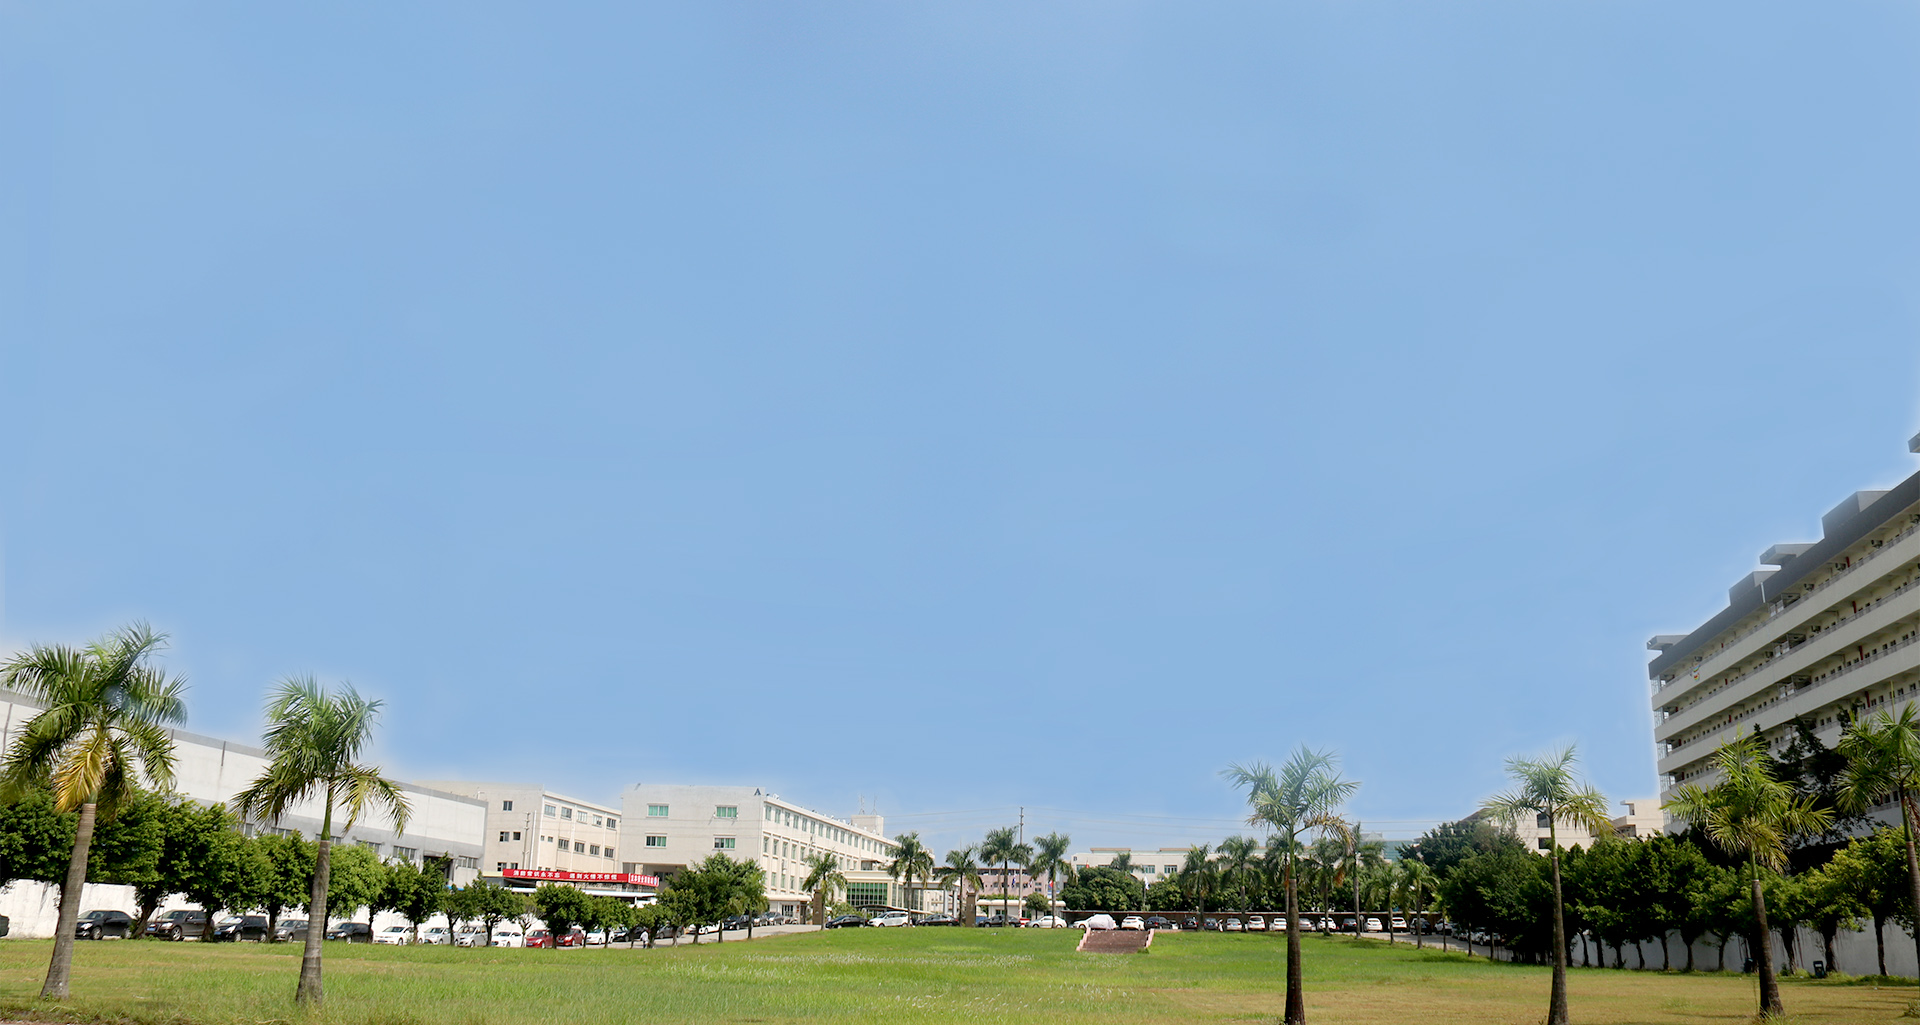
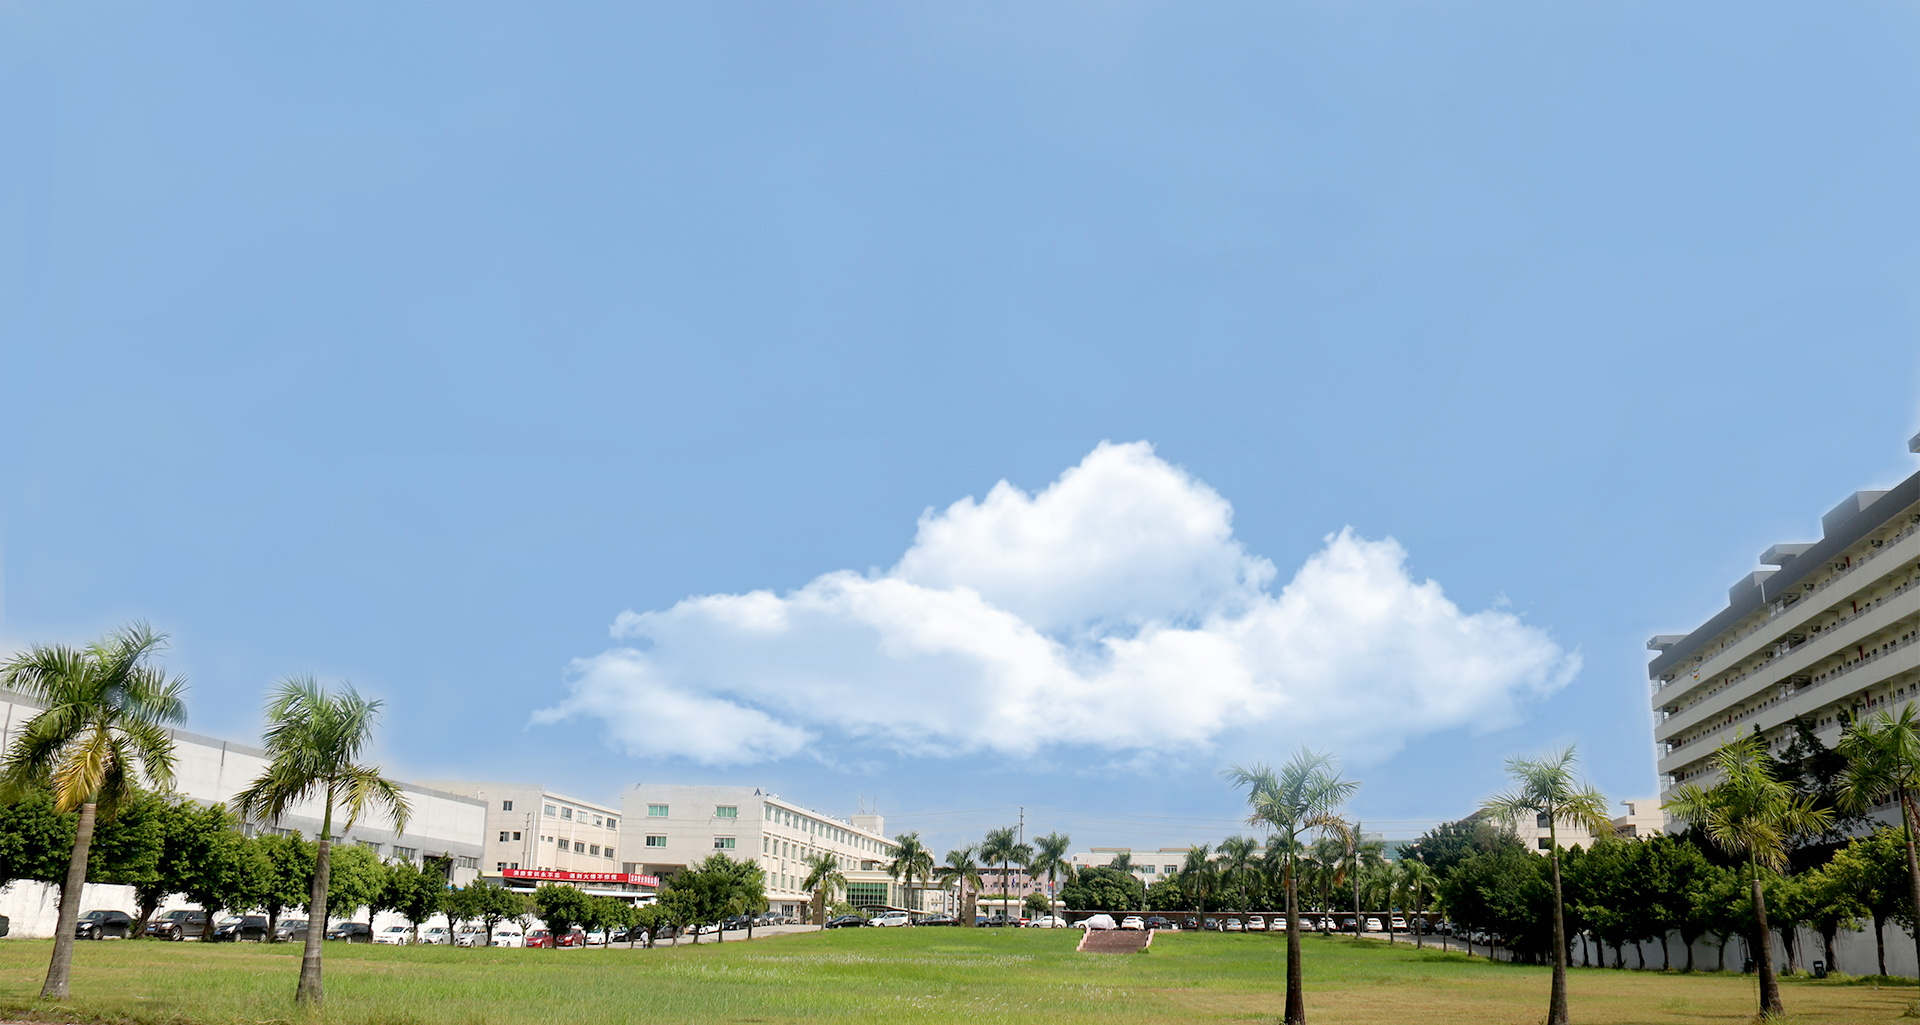
修正开始页

Changed region(s): [[0.2812, 0.4059, 0.8438, 0.7493]]

diff --git a/Public/Home/css/clouds.css b/Public/Home/css/clouds.css
@@ -24,7 +24,7 @@ html, body {
     z-index: 2;
     background: url("../images/yl/cloud_1.png") no-repeat scroll;
     position: absolute;
-    top: 2rem;
+    top: -5rem;
     left: -10rem;
     height: 100%;
     width: 150%;
@@ -40,7 +40,7 @@ html, body {
 
 .sky .clouds_two {
     z-index: 2;
-    background: url("../images/yl/cloud_2.png") no-repeat scroll;
+    background: url("../images/yl/cloud_3.png") no-repeat scroll;
     position: absolute;
     top: 4rem;
     left: 20rem;
@@ -126,7 +126,7 @@ html, body {
     display: block;
     position: absolute;
     left: 50%;
-    bottom: 6rem;
+    bottom: 18%;
     width: 3rem;
     height: 3rem;
     margin: -1.5rem 0 0 -1.5rem;;
@@ -168,9 +168,9 @@ html, body {
 #logo {
     z-index: 10;
     /*background: url("../images/YL_PNG/start/ylLogoShadow_03.png") center center no-repeat;*/
-    background: url("../images/YL_PNG/start/startPage_03.png") center center no-repeat;
+    background: url("../images/YL_PNG/start/start_03.png") center center no-repeat;
     /*background: url("../images/YL_PNG/start/startPage_last_03.png") center center no-repeat;*/
-    background-size: 100% 100%;
+    background-size: 60%;
     width: 32rem;
     height: 24rem;
     margin: auto;
@@ -181,6 +181,21 @@ html, body {
     -ms-transform: translate(-50%, -50%);
     transform: translate(-50%, -50%);
 }
+.text{
+    width: 100%;
+    font-family: ComicSansMS;
+    color: #8A040F;
+    font-size: 2rem;
+    text-align: center;
+}
+#text1{
+    position: absolute;
+    bottom: 38%;
+}
+#text2{
+    position: absolute;
+    bottom: 28%;
+}
 #skip{
 
     z-index: 10;
@@ -190,7 +205,7 @@ html, body {
     height: 1rem;
     margin: auto;
     position: absolute;
-    top: 75%;
+    bottom: 20%;
     left: 50%;
     -webkit-transform: translate(-50%, -50%);
     -ms-transform: translate(-50%, -50%);

diff --git a/Application/Home/View/yl/Index/startup.html b/Application/Home/View/yl/Index/startup.html
@@ -37,7 +37,7 @@
     <!-- <img src="__IMG__/icon_11.png" class="icon11 animated fadeInUp" style="-webkit-animation-delay: 0.8s; -moz-animation-delay: 0.8s; animation-delay:0.8s;"> -->
 
     <div class="img animated fadeIn"
-         style="background-image:url(__IMG__/startup_clean.jpg);background-size:cover;background-position:center; width:100%;height:100%;">
+         style="background-image:url(__IMG__/start.png);background-size:cover;background-position:center; width:100%;height:100%;">
         <!--<div class="fromFarToClose">-->
         <!--<img style="width: 100%;height: 100%" src="__IMG__/yl/cloud10.png" alt="">-->
         <!--</div>-->
@@ -45,9 +45,10 @@
             <!--<img src="__IMG__/yl/cloud_four2.png" style="width: 100%;top:8rem">-->
             <div class="clouds_one"></div>
             <div class="clouds_two"></div>
-            <div class="clouds_fixed"></div>
-            <div id="logo"></div>
-            <div id="skip"></div>
+            <!--<div id="logo"></div>-->
+            <!--<div id="text1" class="text">永联织造厂</div>-->
+            <!--<div id="text2" class="text">Wing Luen Knitting Factory</div>-->
+            <!--<div id="skip"></div>-->
             <div id="arrow_down"></div>
             <!--<div class="clouds_two2"></div>-->
             <!--<div class="clouds_three2"></div>-->

diff --git a/Public/Home/css/index.css b/Public/Home/css/index.css
@@ -87,9 +87,9 @@ ul, li {
     height: 2rem;
     line-height: 2rem;
     width: 27rem;
-    border-bottom: solid;
+    border-bottom:1px solid;
     font-size: 1rem;
-    font-weight: bold;
+    font-weight: normal;
 }
 
 .content {

diff --git a/Public/Home/css/about-core.css b/Public/Home/css/about-core.css
@@ -137,7 +137,8 @@
 	width:47.76%;
 	height:15.31%;
 	left:26.77%;
-	font-family: JQXiYuanFT;
+	/*font-family: JQXiYuanFT;*/
+	font-family: HYLiangPinXianJ;
 	font-size: 1rem;
 	font-weight: normal;
 	font-stretch: normal;
